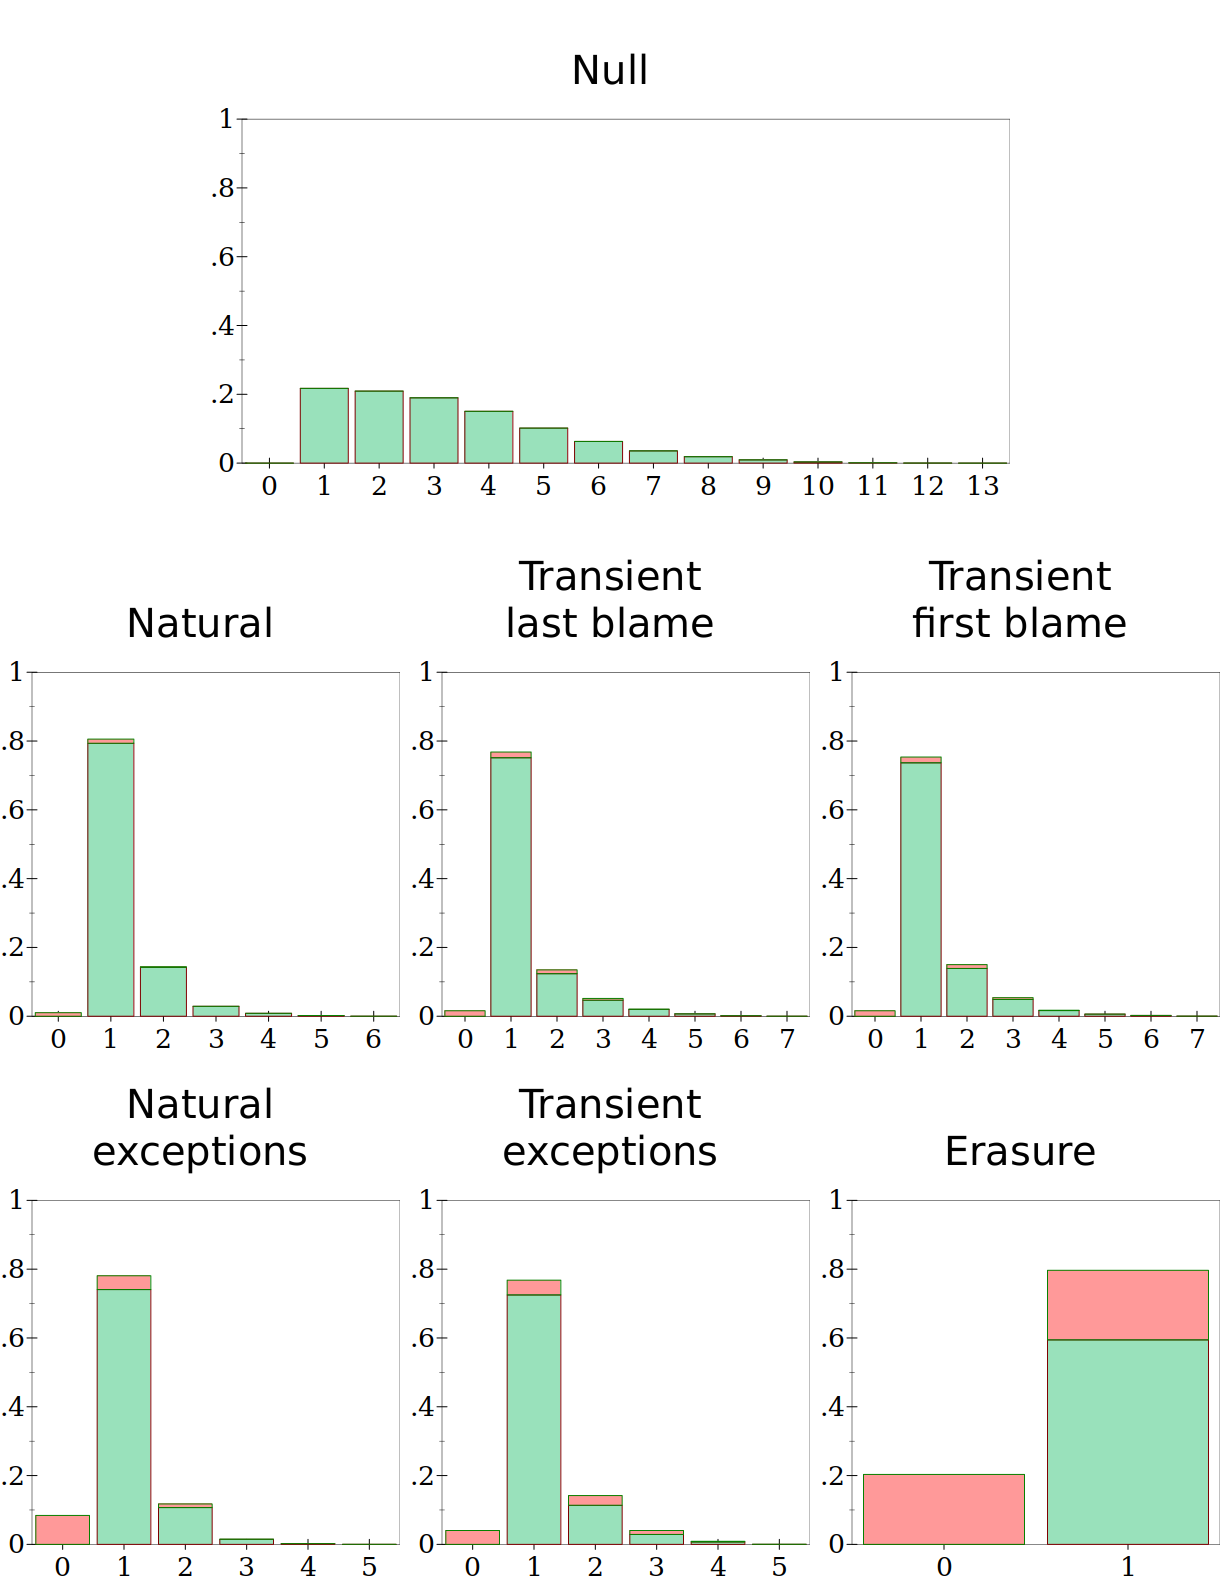
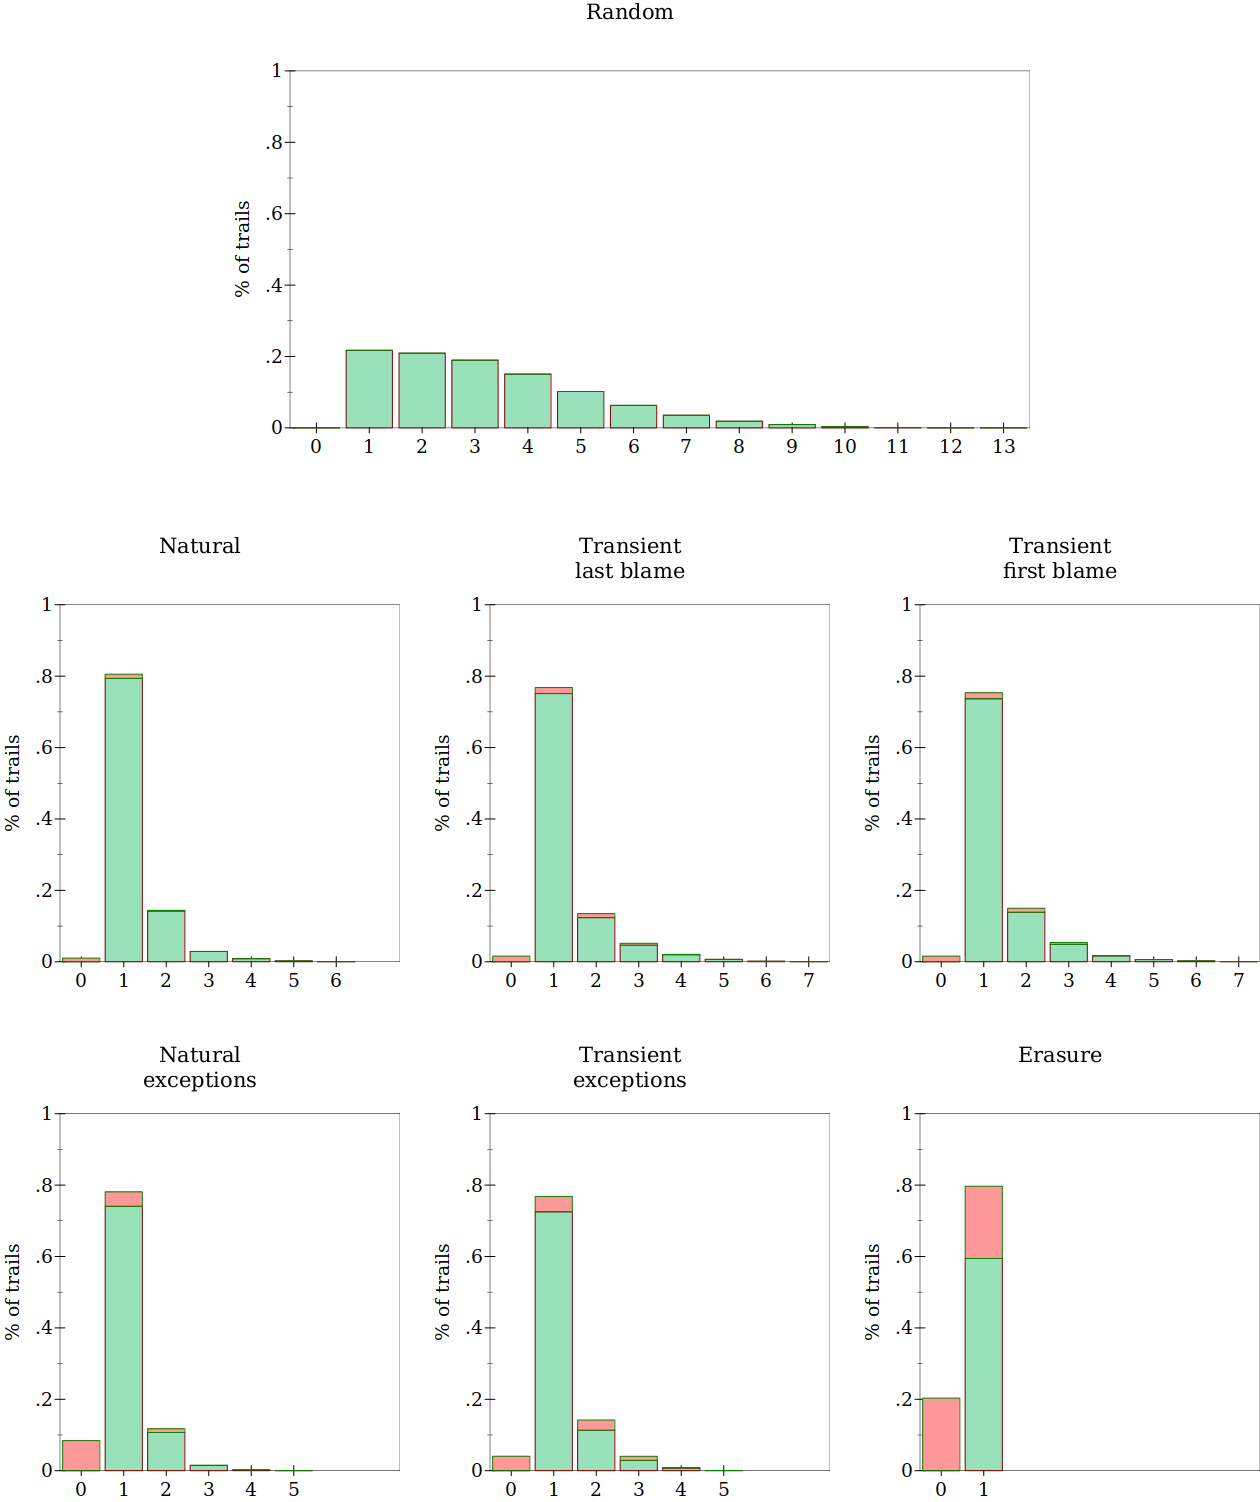
results: Add new figures with descriptions

diff --git a/writing/results.tex b/writing/results.tex
@@ -1,94 +1,14 @@
 We run the experimental process from section~\ref{sec:rational} on the
-sampled debugging scenarios from section~\ref{sec:sample} using a machine with two Intel Xeon Gold 6258R processors and 500GB of memory.
+sampled debugging scenarios from section~\ref{sec:sample} using a machine with two Intel Xeon Gold 6258R processors (28 doubly-threaded cores each) and 500GB of memory.
 Each debugging scenario had a timeout limit of 4 minutes and a
 memory limit of 6GB. The complete experiment required
 over 30,000 hours of compute hours.
 
 
-Figure~\ref{fig:avo-matrix} summarizes our results and provides answers to
-the four questions from section~\ref{sub:experiment}.  Specifically, it
-depicts a head-to-head comparison of the usefulness of each mode against
-every other mode.  The cell in row $R$ and column $C$ plots the percentage
-of interesting debugging scenarios for which $R$ is more useful $C$ ---
-we calculate this percentage as an estimated proportion from our sample.
-In effect, reading across a given row $R$ provides an
-overview of how $R$ compares to every other mode; the higher the bars, the
-more interesting debugging scenarios for which $R$ is strictly more useful
-than the other modes.  Reading down a given row $C$ provides an overview
-of how every other mode compares to $C$; the higher the bars, the more
-interesting debugging scenarios for which $C$ is strictly less useful than
-the other modes. For example, the second cell in the row of Natural blame
-shows that Natural is more useful than Natural exceptions for 12\% of all
-the interesting debugging scenarios we generate from our benchmarks and
-mutators. 
-
-Figure~\ref{sub:experiment} shows that the answers for questions $Q_1$
-to $Q_3$ are positive. In all three semantics, blame modes outperform
-their corresponding exception mode (by 9.44\% to 12.7\%). The Natural
-exceptions mode is never more useful than Natural blame, and  Transient
-exceptions are more useful than Transient first and Transient last blame
-in 2.19\% and 2.8\% of the scenarios respectively. 
-
-
-For the answers to $Q_*$, we compare the percentages in antisymmetric
-positions in the matrix. Blame for all three semantics is significantly
-more useful than Erasure exceptions (by 33\% to 35\%). Natural blame is
-more useful than both versions of Transient blame by a small percentage;
-in 4.05\% of scenarios Natural blame is more useful while in 1.67\% of the
-scenarios Transient blame is more useful. The Transient first and
-Transient last blame are practically indistinguishable. Finally, there is
-no clear winner between Natural exceptions and Transient exceptions
-despite the theoretically advantageous additional checks of the Natural
-semantics.
-
-\begin{figure}
-  \centering
-  \includegraphics[width=0.45\textwidth]{./plots/avo-matrix}
-  \caption{Usefulness comparisons: Each cell depicts the estimated percentage of
-  interesting debugging scenarios for which the row mode is more useful
-  than the column mode.
-  The upper bound of error margin is 0.02\%}
-  \label{fig:avo-matrix}
-\end{figure}
-
-
-\begin{figure}
-  \centering
-  \includegraphics[width=0.4\textwidth]{./plots/bt-lengths-table}
-  \caption{Programmer effort: Each plot depicts the distribution of trail
-  lengths for a given mode across all benchmarks.}
-  \label{fig:effort-table}
-\end{figure}
-
-
-Figure~\ref{fig:effort-table} shows the distribution of programmer effort
-for our sample of interesting debugging scenarios. Unlike the usefulness
-comparisons above, these proportions do not generalize to a representation of the full population.
-Still, as we discuss in section~\ref{subsec:effort}, they provide an
-alternative view of the workings of the rational programmer. 
-
-There are
-three immediate take-aways from the figure. First, the effort for successfully
-debugging interesting scenarios (in green) for the random mode of the
-rational programmer follows  a normal distribution, as expected.\footnote{The
-random mode distribution is indistinguishable for all three semantics and thus the figure~\ref{fig:effort-table} 
-only shows one plot.} In contrast, in the other modes, successful effort coalesces at
-the left side of the plot, meaning that in most cases the programmer needs
-to type a single component to debug a scenario. 
-
-A second point of interest is that the exceptions of
-the Erasure semantics either help the rational programmer immediately or 
-the rational programmer fails to debug a scenario altogether (in red).
-This is expected; no matter how many type annotations the programmer
-adds to an Erasure program, if the type checker doesn't reject the
-program, running the program always produces the same outcome. Thus an
-exception from the runtime has to point to the buggy module with
-the first try. Otherwise the rational programmer types an irrelevant
-module, runs the program again and the exception points again to the
-already typed module. 
-
-A third notable piece of information from
-the figure is that every mode has failed debugging scenarios, not just
+Figure~\ref{fig:success-bars} summarizes the overall success rates of every mode.
+The success rates illustrate a few points that underly the rest of our analysis.
+The first notable piece of information from
+this figure is that every mode has failed debugging scenarios, not just
 Erasure. This should
 not come as a surprise to the astute
 reader. After all, as we
@@ -97,8 +17,7 @@ scenarios. Indeed any mode can fail if running a scenario results in an
 exception and the exception carries no useful information about which
 module the programmer should type next, e.g., because the stack trace 
 does not contain frames from any module of the program, or only typed modules. This situation
-can even happen immediately, which explains failures with 0 effort. 
-
+can happen several steps along a blame trail or even immediately (figure~\ref{fig:effort-table} dives into this below).
 
 While most failures to debug scenarios follow the above pattern, a few do not.
 Breaking down the reasons for failure for Natural blame (1748 in total)
@@ -118,4 +37,129 @@ Transient reports an empty blame set which leaves the rational programmer
 without hints about how to proceed.
 In~\ref{sec:threat:transient}, we discuss how both of these causes of
 failure for Transient affect our experiment. 
+
+The second key observation from figure~\ref{fig:success-bars} is that the modes that use blame all outperform those that do not.
+In particular, Natural and both of Transient's blame modes succeed in around 95\% of our scenarios, while their corresponding exception modes succeed in around 85\% of them and Erasure succeeds in only 60\% of them.
+The only exception is that the Random programmer always succeeds;
+this reflects the fact that every scenario has finitely many modules and this mode can never get stuck.
+
+
+Figure~\ref{fig:avo-bars} depicts a head-to-head comparison of every mode's performance against every other mode, helping to answer the four questions from section~\ref{sub:experiment}.
+Each plot shows a breakdown of the proportion of scenarios where one mode performs better or worse than each other mode.
+In particular, each bar above zero represents the proportion where the plot's entitled mode succeeds and the mode on the x-axis fails; the correspnding bar below zero represents the proportion of the opposite case.
+For example, the plot titled ``Natural'' shows that Natural outperforms Natural exceptions in about 10\% of the scenarios, and the inverse (Natural performs wrse than Natural exceptions) never happens.
+Similarly, the plot titled ``Transient last blame'' shows that Transient last blame outperforms Natural exceptions about in abut 10\% of the scenarios, but conversely it performs worse than Natural exceptions in about 2\% of the scenarios.
+
+Figure~\ref{fig:avo-bars} shows that the answers for questions $Q_1$ to $Q_3$ are all positive.
+In all three semantics, blame modes outperform their corresponding exception mode (by around 10\% for each one).
+The Natural exceptions mode is never more useful than Natural blame, and  Transient
+exceptions are more useful than Transient first and Transient last blame
+in a small percentage (about 2\%) of the scenarios. 
+
+Figure~\ref{fig:avo-bars} also provides answers to $Q_*$.
+Blame for all three semantics is significantly
+more useful than Erasure exceptions (by around 30\%). Natural blame is
+more useful than both versions of Transient blame by a small percentage;
+in about 4\% of scenarios Natural blame is more useful while in about 1.5\% of the
+scenarios Transient blame is more useful. The Transient first and
+Transient last blame are practically indistinguishable. Finally, there is
+no clear winner between Natural exceptions and Transient exceptions
+despite the theoretically advantageous additional checks of the Natural
+semantics.
+
+In order to better understand questions $Q_1$ to $Q_3$, figure~\ref{fig:success-venns} depicts a breakdown of the success of each semantics in comparison to Erasure.
+Specifically, the figure shows one Venn diagram per mode of the rational programmer that uses blame.
+Each diagram breaks breaks down the overlap in the success of the blame mode, its corresponding exception mode, and Erasure.
+For example, in the breakdown of Natural, the diagram shows that all three modes succeed on the same scenario 57.3\% of the time, only Natural and Natural exceptions succeed on 29.1\% of the scenarios, only Natural and Erasure succeed on 2.1\%, and Natural alone succeeds on 9\%.
+This analysis highlights the success tradeoffs each semantics offers against Erasure, with and without blame, to answer questions about the tradeoffs in choosing to use blame or just exceptions for each semantics.
+For instance, the breakdown of Natural clearly illustrates that if choosing between Natural blame, Natural exceptions, and Erasure, Natural blame is the absolutely most successful: all of the successes of the other two modes are subsets of Natural's successful scenarios.
+On the other hand, Transient's blame modes are similar but not so clear-cut.
+
+\begin{figure}
+  \centering
+  \includegraphics[width=0.30\textwidth]{./plots/success-bars}
+  \caption{Success baselines: The estimated percentage of scenarios for which each mode succeeds in locating the bug.
+  }
+  \label{fig:success-bars}
+\end{figure}
+
+\begin{figure}
+  \centering
+  \includegraphics[width=0.9\textwidth]{./plots/avo-bars}
+  \caption{Usefulness comparisons: Each plot depicts a head-to-head comparison of the entitled mode against every other mode.
+  The portion above 0 (in green) is the estimated percentage of scenarios where the entitled mode is more useful than each of the other modes.
+  The portion below 0 (in red) is the estimated percentage of scenarios with the inverse situation.
+  The upper bound of error margin is 0.02\%.}
+  \label{fig:avo-bars}
+\end{figure}
+
+\begin{figure}
+  \centering
+  \includegraphics[width=0.32\textwidth]{./plots/TR-TR-stack-first-venn}
+  \hfill
+  \includegraphics[width=0.32\textwidth]{./plots/transient-newest-transient-stack-first-venn}
+  \hfill
+  \includegraphics[width=0.32\textwidth]{./plots/transient-oldest-transient-stack-first-venn}
+
+  \caption{Blame usefulness analysis: Each diagram shows the breakdown of how three modes' successful scenarios overlap.
+  The percentage of scenarios covered by each circle are proportions for which the corresponding mode succeeds.
+  For example, in the breakdown of Natural, all three modes succeed on the same scenario 57.3\% of the time, only Natural and Natural exceptions succeed on 29.1\% of the scenarios, only Natural and Erasure succeed on 2.1\%, and Natural alone succeeds on 9\%.
+  }
+  \label{fig:success-venns}
+\end{figure}
+
+
+\begin{figure}
+  \centering
+  \includegraphics[width=0.8\textwidth]{./plots/bt-lengths-table}
+  \caption{Programmer effort: Each plot depicts the distribution of trail
+  lengths for a given mode across all benchmarks.}
+  \label{fig:effort-table}
+\end{figure}
+
+\begin{figure}
+  \centering
+  \includegraphics[width=0.9\textwidth]{./plots/bt-length-comparisons}
+  \caption{Effort comparisons: Each plot depicts the distribution of scenarios with trail length differences ranging from -3 to 3.
+  A negative difference means that the top mode's trail is three steps shorter than the bottom mode's trail for the same scenario, and a positive difference is the reverse.
+  Only scenarios where both modes succeed are considered.
+  The \texttt{.2|.8} on the y-axis indicates that the axis is truncated between 0.2 and 0.8.}
+  \label{fig:effort-comparisons}
+\end{figure}
+
+
+Turning to programmer effort, figure~\ref{fig:effort-table} shows the distribution of blame trail lengths
+for our sample of interesting debugging scenarios. Unlike the usefulness
+comparisons above, these proportions do not generalize to a representation of the full population.
+Still, as we discuss in section~\ref{subsec:effort}, they provide an
+alternative view of the workings of the rational programmer. 
+
+There are
+two immediate take-aways from the figure. First, the effort for successfully
+debugging interesting scenarios (in green) for the random mode of the
+rational programmer follows  a normal distribution, as expected.\footnote{The
+random mode distribution is indistinguishable for all three semantics and thus the figure~\ref{fig:effort-table} 
+only shows one plot.} In contrast, in the other modes, successful effort coalesces at
+the left side of the plot, meaning that in most cases the programmer needs
+to type a single component to debug a scenario. 
+
+A second point of interest is that the exceptions of
+the Erasure semantics either help the rational programmer immediately or 
+the rational programmer fails to debug a scenario altogether (in red).
+This is expected; no matter how many type annotations the programmer
+adds to an Erasure program, if the type checker doesn't reject the
+program, running the program always produces the same outcome. Thus an
+exception from the runtime has to point to the buggy module with
+the first try. Otherwise the rational programmer types an irrelevant
+module, runs the program again and the exception points again to the
+already typed module. 
+
+Figure~\ref{fig:effort-comparisons} provides head-to-head comparisons of effort.
+To directly compare effort between modes, we compute the difference in trail length between two modes for all scenarios where they both succeed.
+Hence, each plot in the figure shows the distribution of scenarios with length differences ranging from -3 (the first mode's trail is 3 steps shorter than the second) to 3 (the first mode's trail is 3 steps longer than the second).
+The figure offers several insights about the comparative effort for each mode that complement the insights about comparitive success from figure~\ref{fig:avo-bars}.
+First, Natural blame never produces shorter trails than Natural exceptions, and sometimes (albeit rarely) produces slightly longer ones.
+Second, Natural relatively often (around 10\% of the scenarios) produces shorter trails than both Transient blame modes, and they are sometimes significantly shorter.
+Third, Transient last blame often produces shorter trails than Transient first blame, which is a particularly interesting distinction in light of their nearly undistinguishable success rates.
+Finally, Transient's blame modes also share the characteristic with Natural that blame sometimes produces longer trails than their corresponding exception modes.
 
